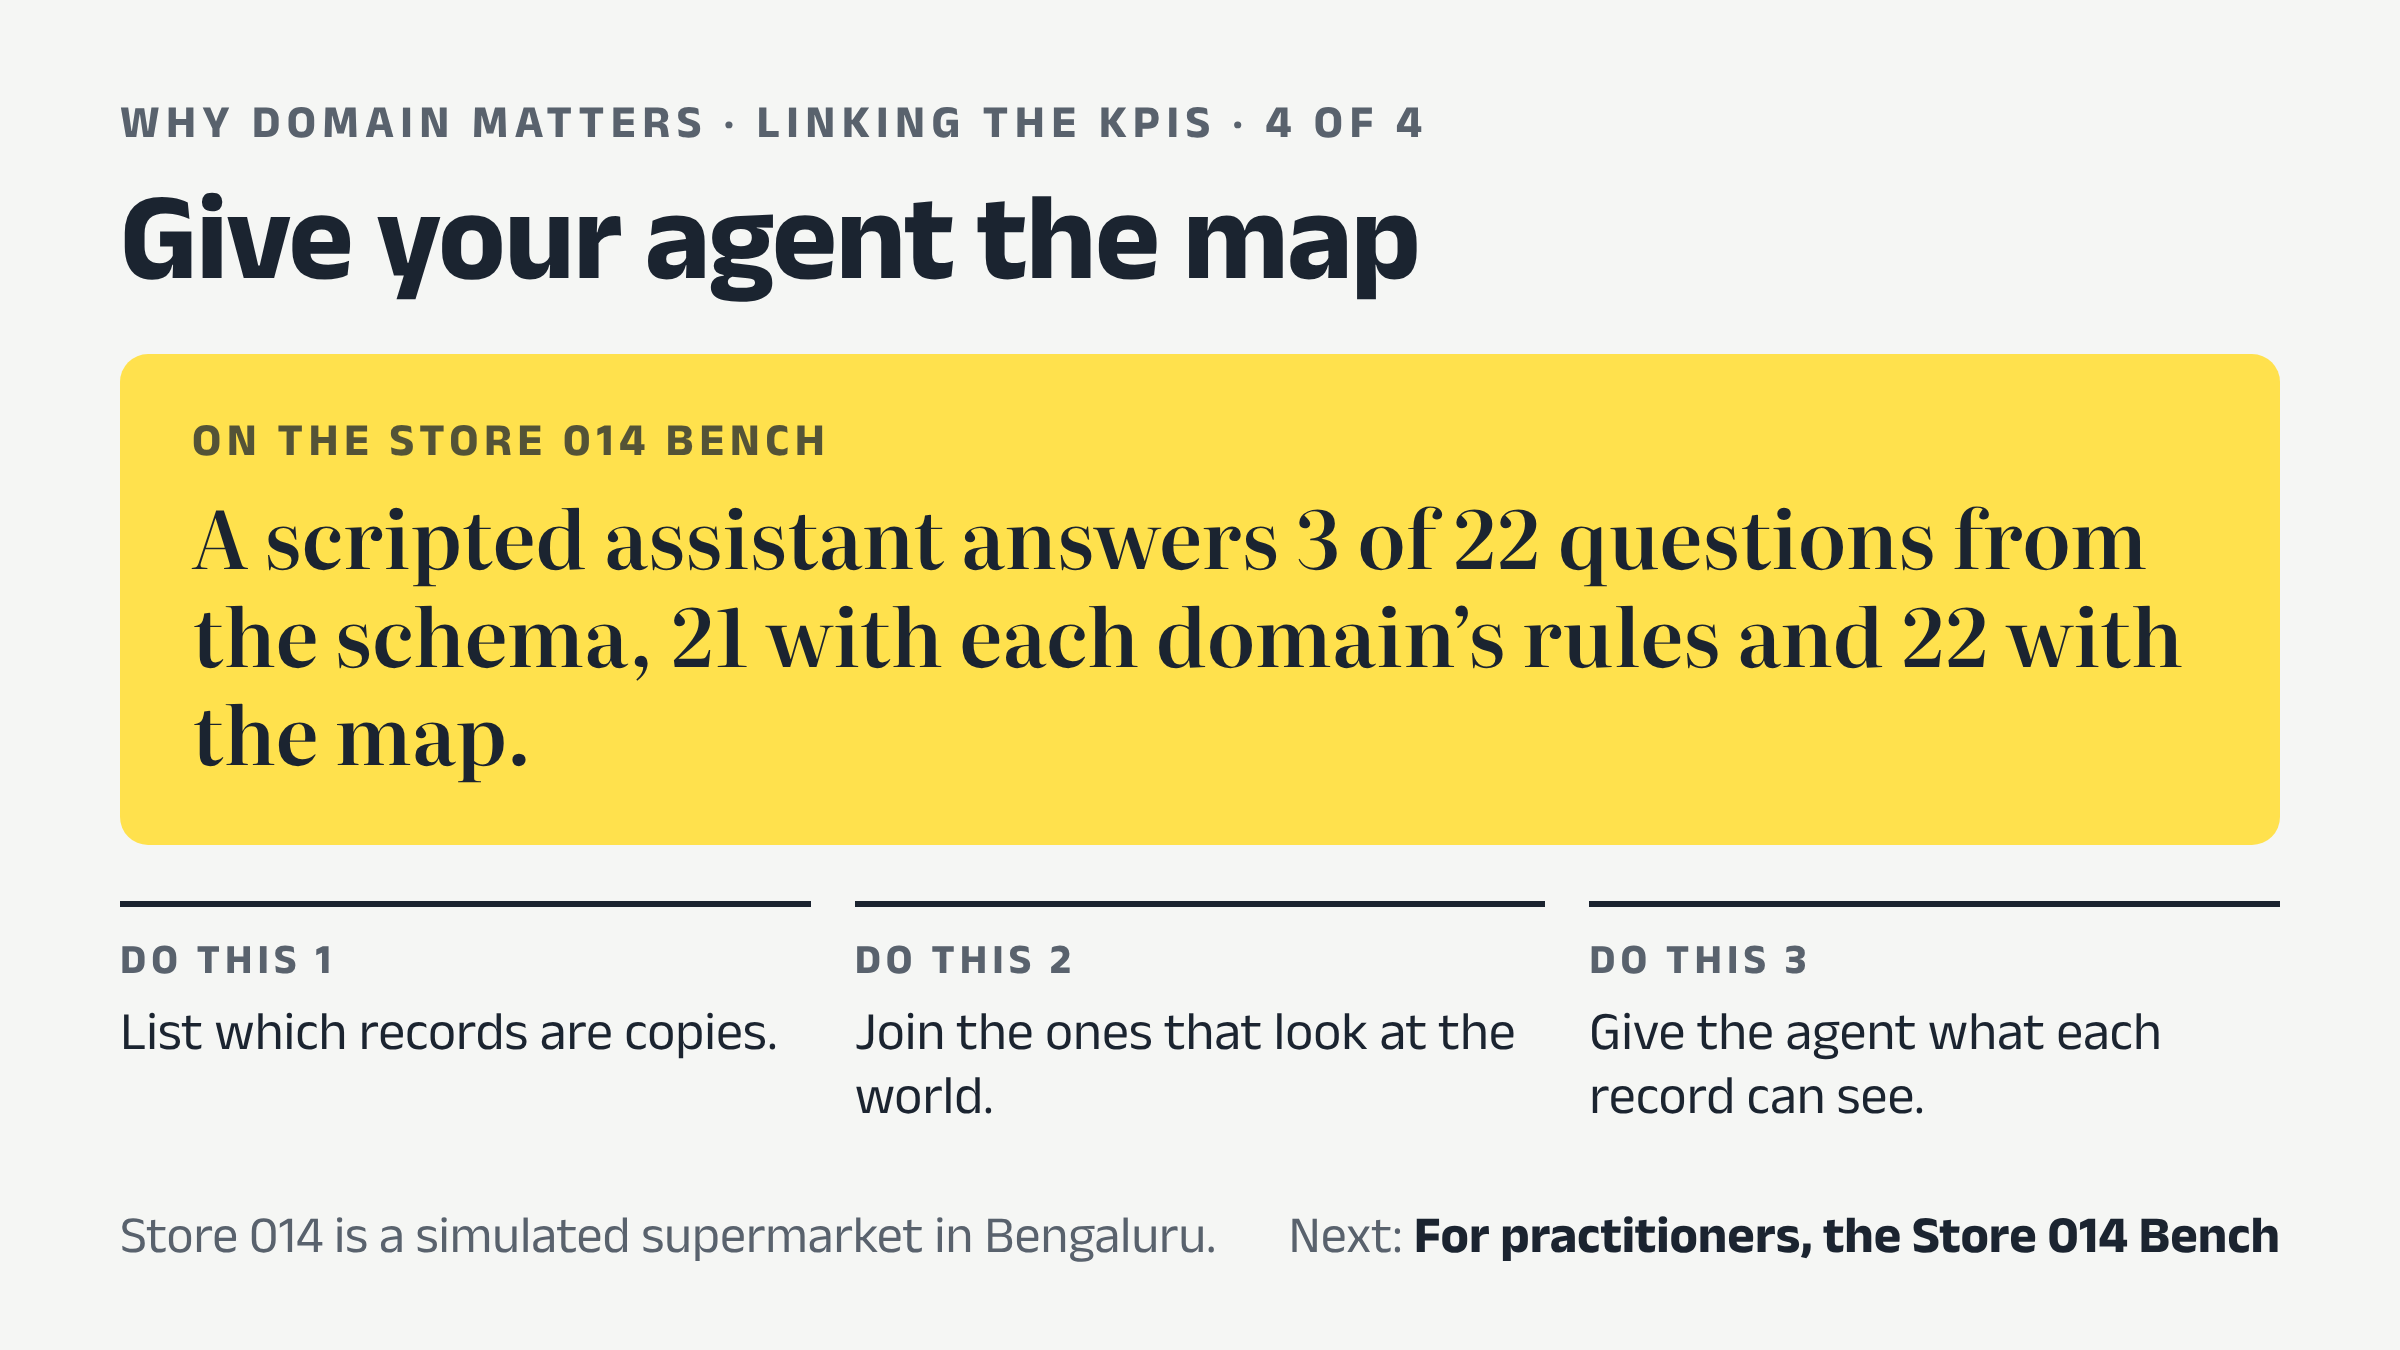
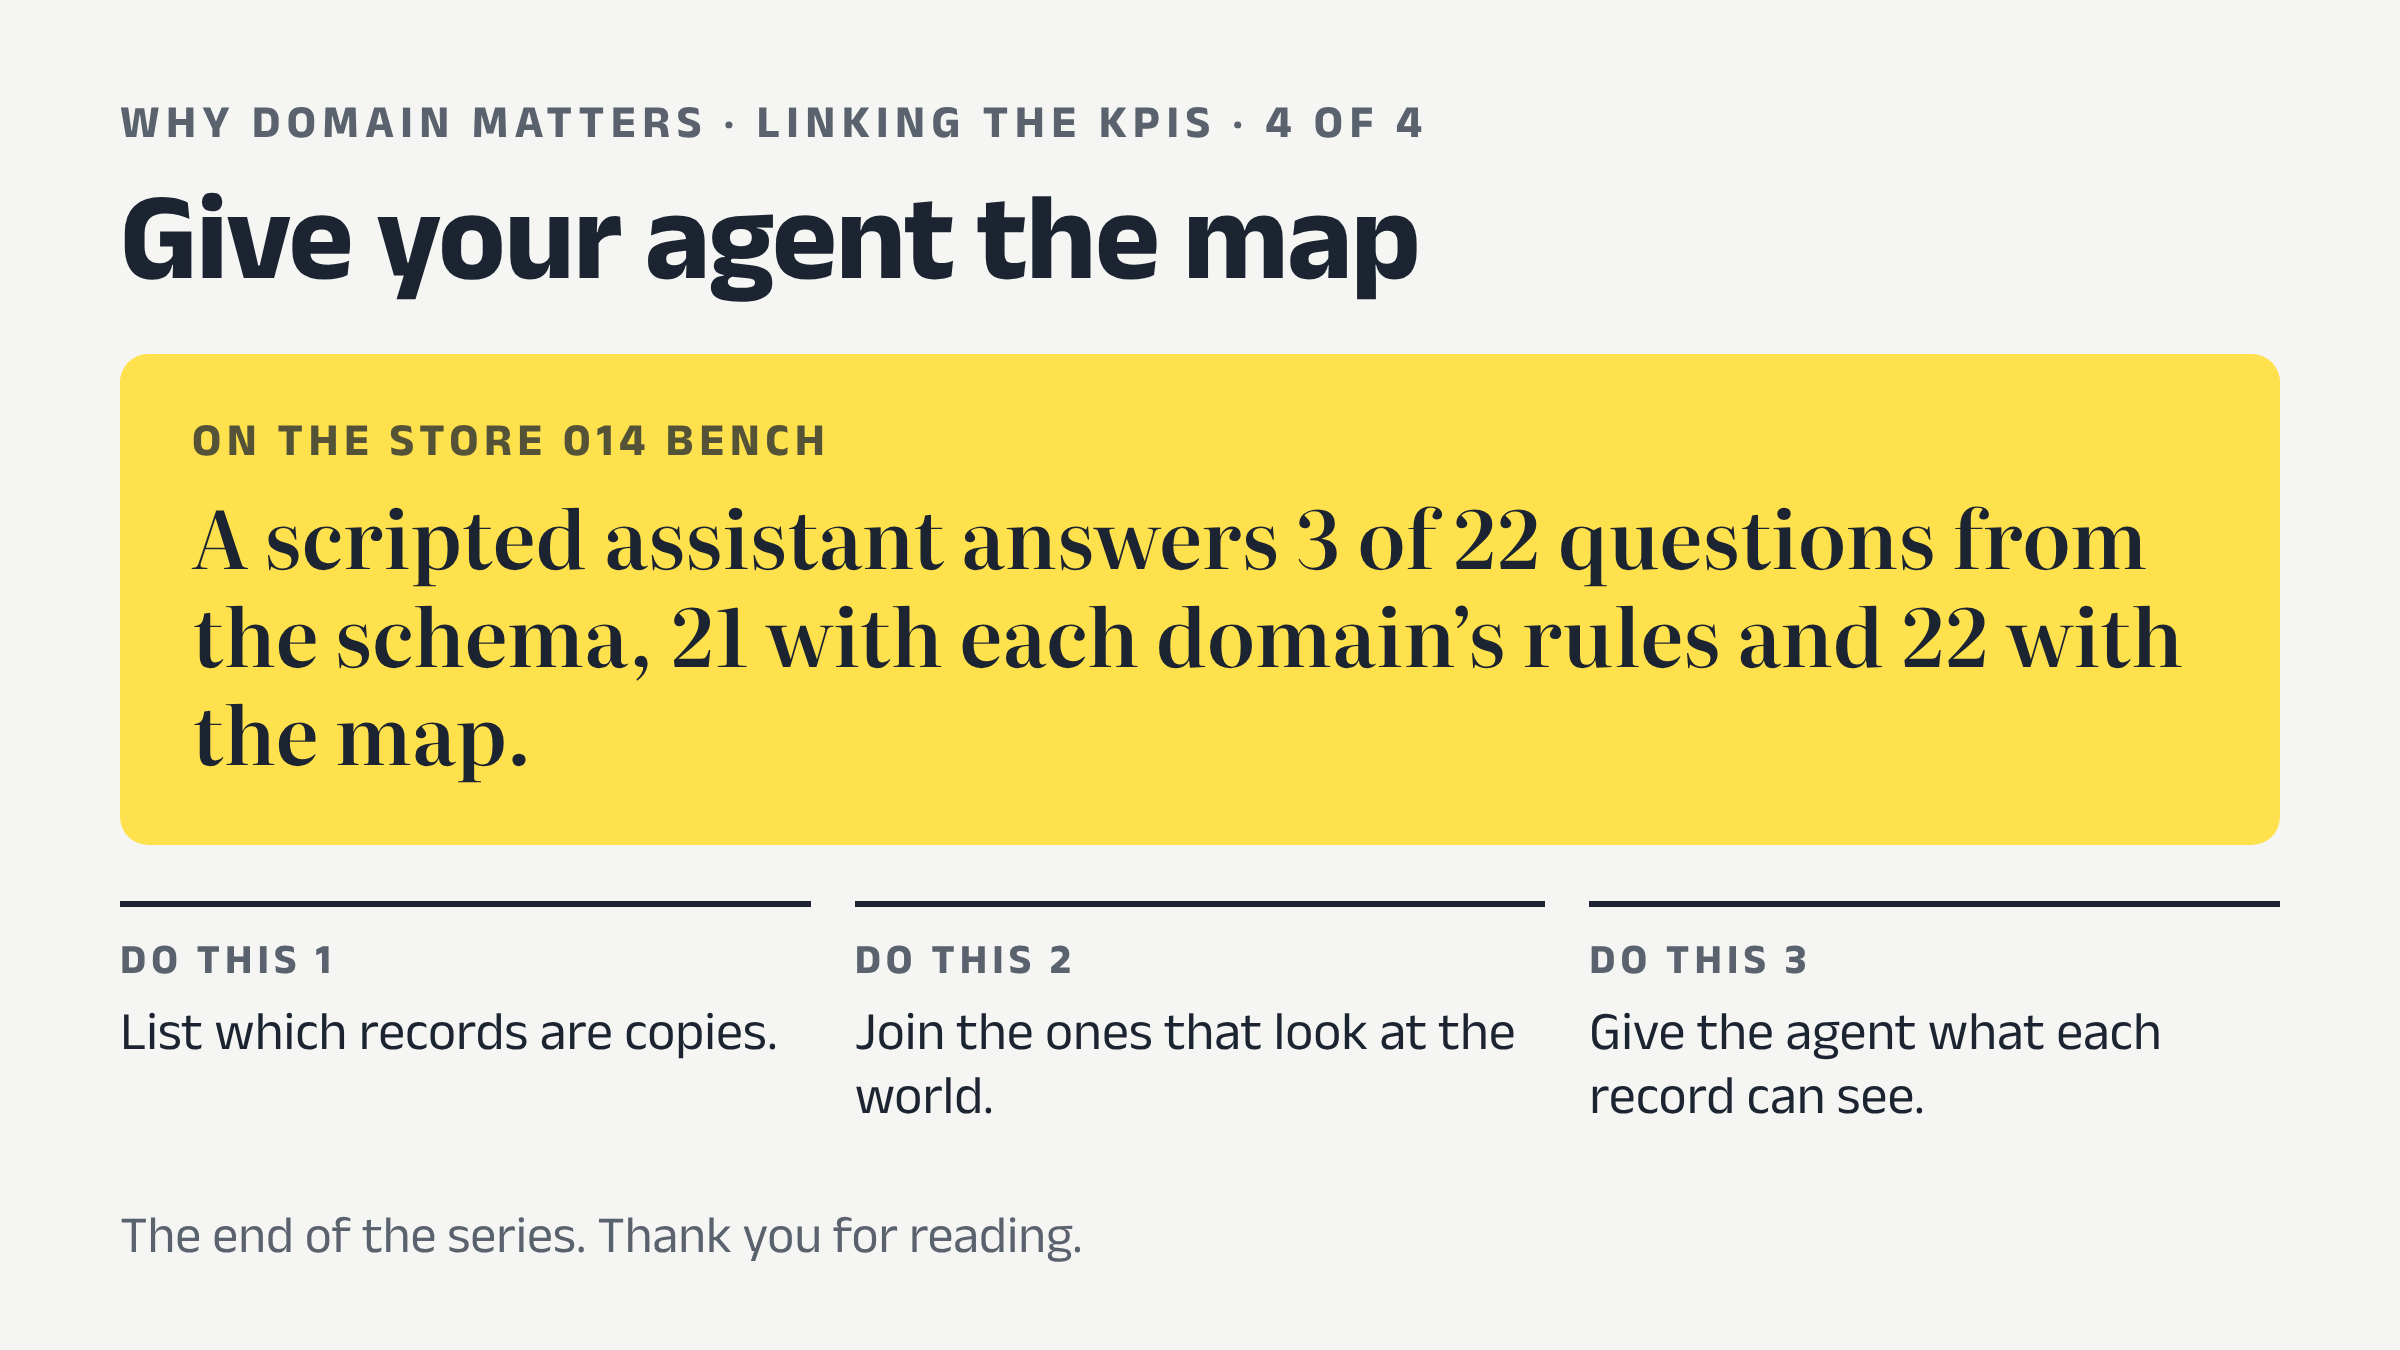
Remove the "For practitioners" section and its two posts
- Drop the sixth part from the series, the home page and the opener's list.
- Delete the Store 014 Bench and dbt tests posts and their images; the kit page and its
  downloads stay.
- Series is now 23 posts; update the counts in the opener, README and tests.
- Regenerate the who-saw-what closing image, now the end of the series.

Claude-Session: https://claude.ai/code/session_012TuUppw4tS1K95M9bQYPdf

Changed region(s): [[0.0312, 0.9022, 0.5, 0.9333], [0.5312, 0.9022, 0.9688, 0.9333]]

diff --git a/tests/e2e/site.spec.ts b/tests/e2e/site.spec.ts
@@ -11,10 +11,10 @@ const pages = [
   { path: 'payments/', og: 'payments' },
   { path: 'payments/technical/', og: 'payments' },
   { path: 'who-saw-what/', og: 'who-saw-what' },
-  // The KPI posts in reading order, then the two for practitioners.
+  // The KPI posts in reading order, then the linking posts.
   ...['sales', 'on-shelf-availability', 'lost-sales', 'inventory-accuracy', 'shrink', 'forecast-accuracy', 'days-of-supply',
     'fresh-waste', 'pick-accuracy', 'fill-rate', 'on-time-arrival', 'otif', 'net-adjustments', 'payment-success',
-    'technical-declines', 'charged-twice', 'match-rate', 'refund-turnaround', 'bench', 'dbt-tests'].map((slug) => ({ path: `${slug}/`, og: slug })),
+    'technical-declines', 'charged-twice', 'match-rate', 'refund-turnaround'].map((slug) => ({ path: `${slug}/`, og: slug })),
   { path: 'kit/', og: 'kit' },
   { path: 'demo/', og: 'demo' },
   { path: 'data/', og: 'home' },
@@ -56,7 +56,7 @@ test('link-preview images are served', async ({ request }) => {
 test('home leads with the opener and lists every post by part', async ({ page }) => {
   await page.goto('./');
   await expect(page.locator('.start a[href$="/why-domain/"]')).toHaveCount(1);
-  for (const slug of ['sales', 'retail', 'logistics', 'payments', 'who-saw-what', 'on-shelf-availability', 'technical-declines', 'dbt-tests']) {
+  for (const slug of ['sales', 'retail', 'logistics', 'payments', 'who-saw-what', 'on-shelf-availability', 'technical-declines']) {
     await expect(page.locator(`.part-posts a[href$="/${slug}/"]`)).toHaveCount(1);
   }
   await expect(page.locator('a[href$="/kpis/"]').first()).toBeVisible();
@@ -67,7 +67,7 @@ test('every link on every post lands on a page and a section that exist', async 
   test.setTimeout(120_000);
   await page.goto('./');
   const posts = [...new Set(await page.locator('.start a, .part-posts a').evaluateAll((as) => as.map((a) => (a as HTMLAnchorElement).pathname)))];
-  expect(posts).toHaveLength(25);
+  expect(posts).toHaveLength(23);
   const ids = new Map<string, Set<string>>();
   const idsOf = async (path: string) => {
     if (!ids.has(path)) {
@@ -99,7 +99,7 @@ test('every link on every post lands on a page and a section that exist', async 
 test('posts link only to outside sources and carry the AI line', async ({ page }) => {
   await page.goto('./');
   const posts = [...new Set(await page.locator('.start a, .part-posts a').evaluateAll((as) => as.map((a) => (a as HTMLAnchorElement).pathname)))];
-  expect(posts).toHaveLength(25);
+  expect(posts).toHaveLength(23);
   for (const post of posts) {
     await page.goto(post.replace('/domain-series/', ''));
     const prose = 'article > p a[href], article > ul a[href], article > ol a[href], article > blockquote a[href]';
@@ -142,7 +142,7 @@ test('each KPI post has the same shape and gives its agent the KPI page’s rule
 test('every picture in every post is served and described', async ({ page, request }) => {
   await page.goto('./');
   const posts = [...new Set(await page.locator('.start a, .part-posts a').evaluateAll((as) => as.map((a) => (a as HTMLAnchorElement).pathname)))];
-  expect(posts).toHaveLength(25);
+  expect(posts).toHaveLength(23);
   for (const post of posts) {
     await page.goto(post.replace('/domain-series/', ''));
     const imgs = await page.locator('article figure.picture img').evaluateAll((els) => els.map((e) => ({ src: (e as HTMLImageElement).getAttribute('src')!, alt: (e as HTMLImageElement).alt })));

diff --git a/tests/e2e/kpis.spec.ts b/tests/e2e/kpis.spec.ts
@@ -65,10 +65,9 @@ test('the opener quotes the world correctly', async ({ page }) => {
     `On time, in full for June's deliveries: ${otif.reported} by the warehouse's report, ${otif.observed} with every case right.`,
     `Payment success for UPI one Saturday evening: ${pay.reported} at the till, ${pay.observed} at the store's bank.`,
     "Book stock cannot see the shelf, a shipping notice cannot see inside a pallet, and a till cannot see the customer's bank.",
-    'The series has 25 short blogs, one idea each.',
+    'The series has 23 short blogs, one idea each.',
     'Eighteen KPI blogs, one KPI each',
     'Four linking blogs',
-    'Two blogs for practitioners',
   ];
   for (const e of expected) expect(text, e).toContain(e);
   await expect(page.locator('article figure.picture img')).toHaveCount(3);
@@ -157,12 +156,12 @@ test('each domain post opens with its KPI x-rayed, linked to the KPI page', asyn
   }
 });
 
-test('the home page lists the twenty-five posts by part, each with what actually happened', async ({ page }) => {
+test('the home page lists the twenty-three posts by part, each with what actually happened', async ({ page }) => {
   await page.goto('./');
-  await expect(page.locator('.part')).toHaveCount(5);
-  const counts = { shelf: 8, truck: 5, money: 5, together: 4, practice: 2 } as const;
+  await expect(page.locator('.part')).toHaveCount(4);
+  const counts = { shelf: 8, truck: 5, money: 5, together: 4 } as const;
   for (const [part, n] of Object.entries(counts)) await expect(page.locator(`#part-${part} + .part-blurb + .part-posts li`)).toHaveCount(n);
-  await expect(page.locator('.part-posts li')).toHaveCount(24);
+  await expect(page.locator('.part-posts li')).toHaveCount(22);
   // The KPI posts are numbered in reading order, 1 to 18.
   const kpiLinks = await page.locator('.part-posts .is-kpi a').allInnerTexts();
   expect(kpiLinks.map((t) => Number(t.match(/^KPI (\d+):/)?.[1]))).toEqual(Array.from({ length: 18 }, (_, i) => i + 1));
@@ -171,7 +170,7 @@ test('the home page lists the twenty-five posts by part, each with what actually
     await expect(row.locator('.note')).toContainText(h.observed);
   }
   for (const slug of ['retail', 'logistics', 'payments', 'who-saw-what']) await expect(page.locator(`#part-together ~ .part-posts .is-story a[href$="/${slug}/"]`)).toHaveCount(1);
-  await expect(page.locator('#contents-title')).toHaveText('The series, in 25 short posts');
+  await expect(page.locator('#contents-title')).toHaveText('The series, in 23 short posts');
   // Every page leads readers to the opener and the KPI page.
   await expect(page.locator('header nav a[href$="/why-domain/"]')).toHaveText('Start here');
   await expect(page.locator('header nav a[href$="/kpis/"]')).toHaveText('KPIs');

diff --git a/src/lib/series.ts b/src/lib/series.ts
@@ -1,5 +1,5 @@
-// The series' six parts, in reading order. A post names its part in frontmatter; its place in the
-// series comes from `order` (its post number, 1 to 25). A KPI post's number among the eighteen KPIs
+// The series' five parts, in reading order. A post names its part in frontmatter; its place in the
+// series comes from `order` (its post number, 1 to 23). A KPI post's number among the eighteen KPIs
 // comes from SERIES_ORDER in src/lib/kpis.ts.
 import { kpiNumber, KPI_COUNT } from './kpis';
 
@@ -9,7 +9,6 @@ export const PARTS = [
   { id: 'truck', name: 'The 18 KPIs: the truck', short: 'the truck', domain: 'logistics' },
   { id: 'money', name: 'The 18 KPIs: the money', short: 'the money', domain: 'payments' },
   { id: 'together', name: 'Linking the KPIs', short: 'linking the KPIs', domain: undefined },
-  { id: 'practice', name: 'For practitioners', short: 'for practitioners', domain: undefined },
 ] as const;
 export type PartId = (typeof PARTS)[number]['id'];
 

diff --git a/src/content.config.ts b/src/content.config.ts
@@ -8,7 +8,7 @@ const posts = defineCollection({
     /** Overrides the line above the title, which otherwise comes from the post's part. */
     domain: z.string().optional(),
     /** The part of the series the post belongs to (src/lib/series.ts). */
-    part: z.enum(['start', 'shelf', 'truck', 'money', 'together', 'practice']).optional(),
+    part: z.enum(['start', 'shelf', 'truck', 'money', 'together']).optional(),
     /** For a KPI post: the KPI's id in src/lib/kpis.ts. */
     kpi: z.string().optional(),
     description: z.string(),

diff --git a/README.md b/README.md
@@ -1,6 +1,6 @@
 # Why Domain Matters
 
-A blog series on why domain knowledge matters to data and AI work, in 25 short posts on one synthetic Indian supermarket, Store 014. An opener; three stories (the shelf, the truck, the money), each followed by one post per KPI it touches (eighteen in all: what the KPI measures, what it said at Store 014, why it missed, how to catch it, and the rule to give an AI agent); and a finale with two practical posts (a benchmark with an answer key, and domain tests in dbt). Every claim links to its evidence: a Store 014 number to the analysis that computed it, a real-world fact to its source. The stories ship with demo scenarios, downloadable records, slide decks, captioned videos and technical companions with SQL, Python and a notebook.
+A blog series on why domain knowledge matters to data and AI work, in 23 short posts on one synthetic Indian supermarket, Store 014. An opener; three stories (the shelf, the truck, the money), each followed by one post per KPI it touches (eighteen in all: what the KPI measures, what it said at Store 014, why it missed, how to catch it, and the rule to give an AI agent); and a finale that puts the KPIs on one map. Every claim links to its evidence: a Store 014 number to the analysis that computed it, a real-world fact to its source. The stories ship with demo scenarios, downloadable records, slide decks, captioned videos and technical companions with SQL, Python and a notebook.
 
 Live site: https://kvinayakpai.github.io/domain-series/
 
